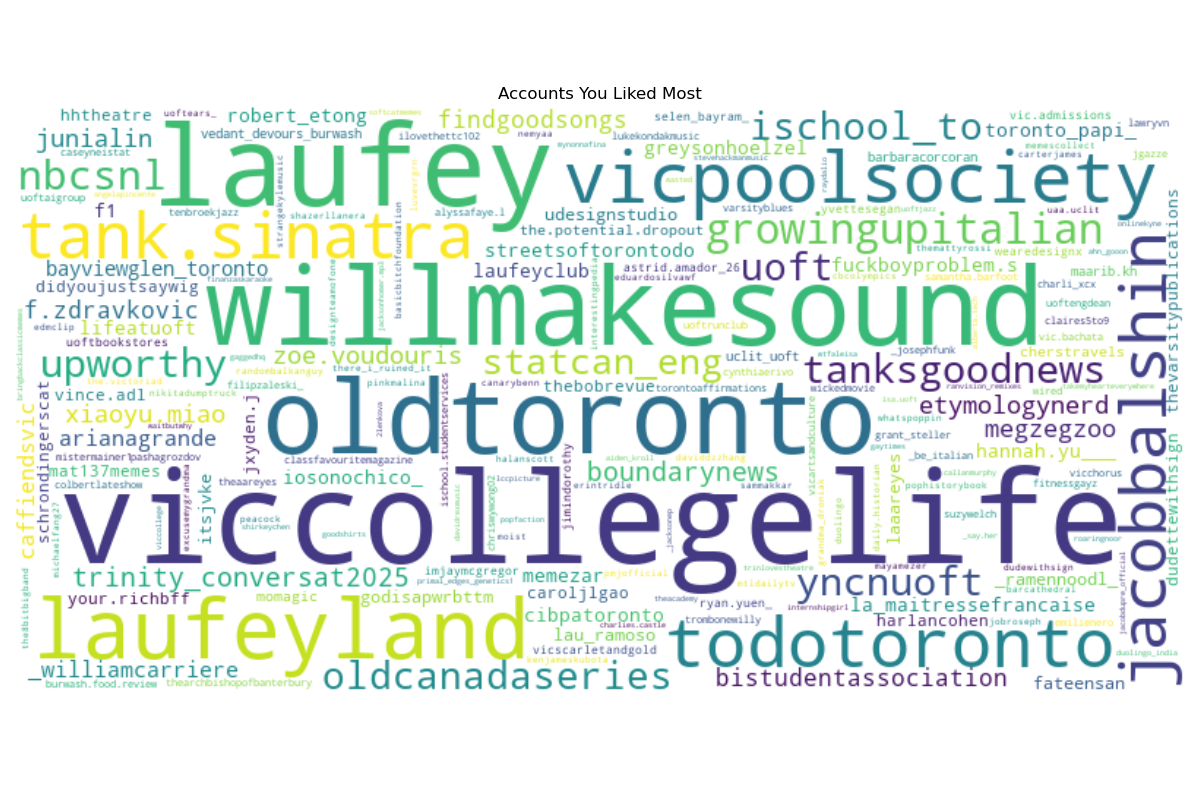
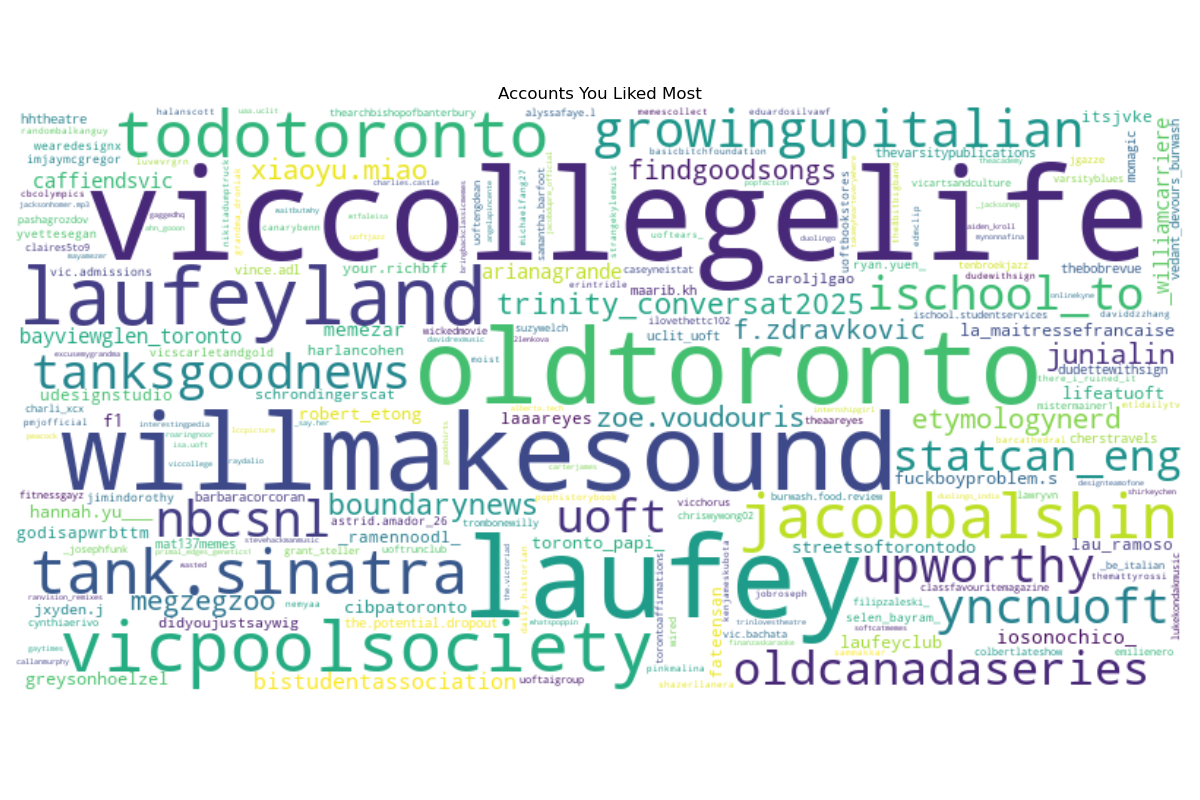
fixed so images wouldn't stack

diff --git a/ui/project_ui.py b/ui/project_ui.py
@@ -20,6 +20,7 @@ class InstagramArchiveApp:
         # Create an initial white window to display the image
         self.image_frame = tk.Frame(self.root, width=800, height=500, bg="white")
         self.image_frame.pack(pady=20)
+        self.image_label = None
 
         # Label for the selected folder
         self.label = tk.Label(self.root, text="No folder selected", wraplength=350, bg="#2E2E2E", fg="white")
@@ -76,15 +77,18 @@ class InstagramArchiveApp:
     def display_visualization(self, image_path):
         try:
             img = Image.open(image_path)
-            img = img.resize((800, 400), Image.LANCZOS)
+            img = img.resize((800, 500), Image.LANCZOS)
             img = ImageTk.PhotoImage(img)
 
-            label = tk.Label(self.image_frame, image=img, bg="white")
-            label.image = img
-            label.pack(pady=10)
+            if self.image_label is not None:
+                self.image_label.destroy()
+
+            self.image_label = tk.Label(self.image_frame, image=img, bg="white")
+            self.image_label.image = img
+            self.image_label.pack(pady=10)
+
         except Exception as e:
             messagebox.showerror("Error", f"Could not load visualization: {e}")
-
 
 # Run the application
 if __name__ == "__main__":

diff --git a/to_refactor/story_likes_visualizations.py b/to_refactor/story_likes_visualizations.py
@@ -32,7 +32,7 @@ most_active_liker, max_likes = like_counts.most_common(1)[0]
 sorted_likes = dict(sorted(like_counts.items(), key=lambda x: x[1], reverse=True))
 
 # Plot Word Cloud
-wc = WordCloud(width=800, height=400, background_color="white", colormap="coolwarm")
+wc = WordCloud(width=800, height=500, background_color="white", colormap="coolwarm")
 wc.generate_from_frequencies(like_counts)
 
 plt.figure(figsize=(10, 5))

diff --git a/to_refactor/wordcloud_topics.py b/to_refactor/wordcloud_topics.py
@@ -17,7 +17,7 @@ topics = [
 text = " ".join(topics)
 
 # Generate word cloud
-wc = WordCloud(width=800, height=400, background_color="white").generate(text)
+wc = WordCloud(width=800, height=500, background_color="white").generate(text)
 
 output_path = "../images/wordcloud_topics.png"
 
